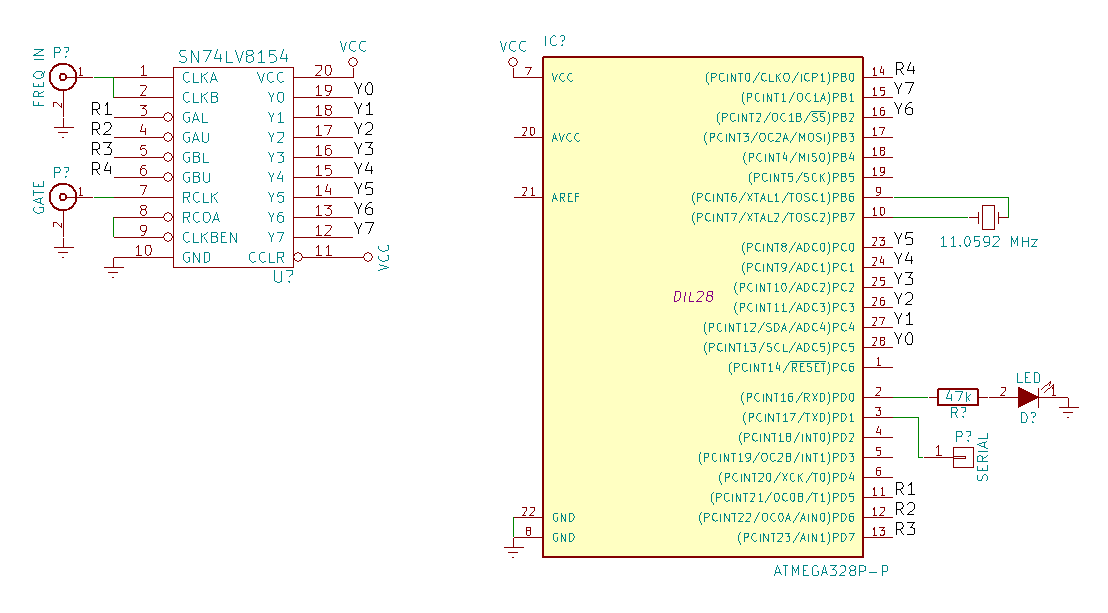
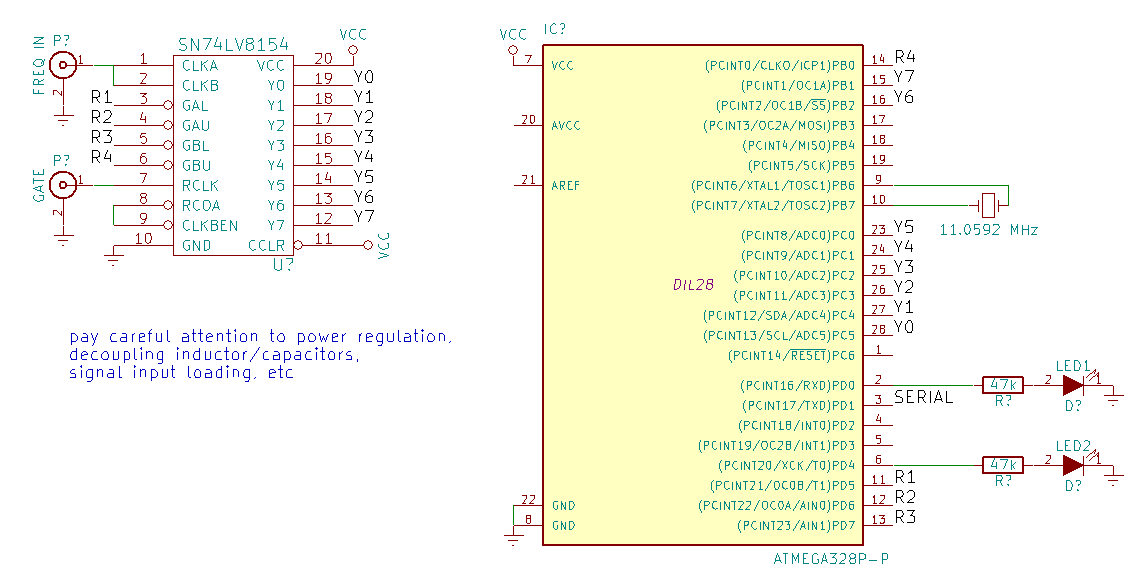
sn74lv8154

Changed region(s): [[0.4296, 0.0615, 0.9819, 0.9846], [0.0307, 0.0615, 0.3682, 0.4615], [0.0614, 0.5538, 0.3989, 0.6462]]

diff --git a/ATMega328 2016-09-04 SN74LV8154/main.c b/ATMega328 2016-09-04 SN74LV8154/main.c
@@ -24,6 +24,12 @@ void serial_send(unsigned char data){
 	UDR0 = data; // Transmit data
 }
 
+void serial_string(const char* s){
+    while(*s){
+		serial_send(*s++);
+	}
+}
+
 void serial_break(){
 	serial_send(10); // new line 
 	serial_send(13); // carriage return
@@ -72,6 +78,12 @@ int counter_reg(char reg){
 	if (PINC&(1<<PC0)){val+=32;}
 	if (PINB&(1<<PB2)){val+=64;}
 	if (PINB&(1<<PB1)){val+=128;}
+	
+	
+	// set all registers high
+	PORTD|=(1<<PD5)|(1<<PD6)|(1<<PD7);
+	PORTB|=(1<<PB0);
+	
 	return val;
 }
 
@@ -94,6 +106,15 @@ unsigned long int counter_getCount_safe(){
 	return count1;
 }
 	
+void serial_test(){
+	char i;
+	serial_break();
+	for(i=65;i<65+26;i++){
+		serial_send(i);
+	}
+	serial_break();
+}
+	
 int main(void){
 	
 	// register selects: PD5,PD6,PD7,PB0
@@ -101,18 +122,24 @@ int main(void){
 	DDRB|=(1<<PB0);
 	
 	// LED output
-	DDRD|=(1<<PD0);
+	DDRD|=(1<<PD0); // LED1
+	DDRD|=(1<<PD4); // LED2
 	
 	// count reads: PC5,PC4,PC3,PC2,PC1,PC0,PB2,PB1
 	// INPUTS NOT OUTPUTS
 	
 	serial_init();
+	serial_string("Frequency Counter");
+	serial_break();
+	serial_string("www.SWHarden.com");
+	serial_break();
 	unsigned long int countOld;
 	unsigned long int countNew;
 	unsigned long int countDiff;
+	char blankReads=0;
 	for(;;){		
 		countNew=counter_getCount_safe();
-		if (countNew!=countOld){
+		if ((countNew!=countOld)||(blankReads>50)){
 			if (countNew>countOld){countDiff=countNew-countOld;}
 			else {countDiff=0-countOld+countNew;}
 			countOld=countNew;
@@ -120,9 +147,16 @@ int main(void){
 			serial_comma();
 			serial_number(countDiff); // send the difference
 			serial_break();
-			PORTD|=(1<<PD0); // blink the LED
+			PORTD|=(1<<PD0); // blink LED1 on all TX
+			if (blankReads<50){
+				PORTD|=(1<<PD4); // blink LED2 if gated
+			}
+			blankReads=0;
 		}
-		_delay_ms(50); // wait a while
+		blankReads++;
+		_delay_ms(100); // wait a while
 		PORTD&=~(1<<PD0);
+		PORTD&=~(1<<PD4);
+		//serial_test();
 	}	
 }
